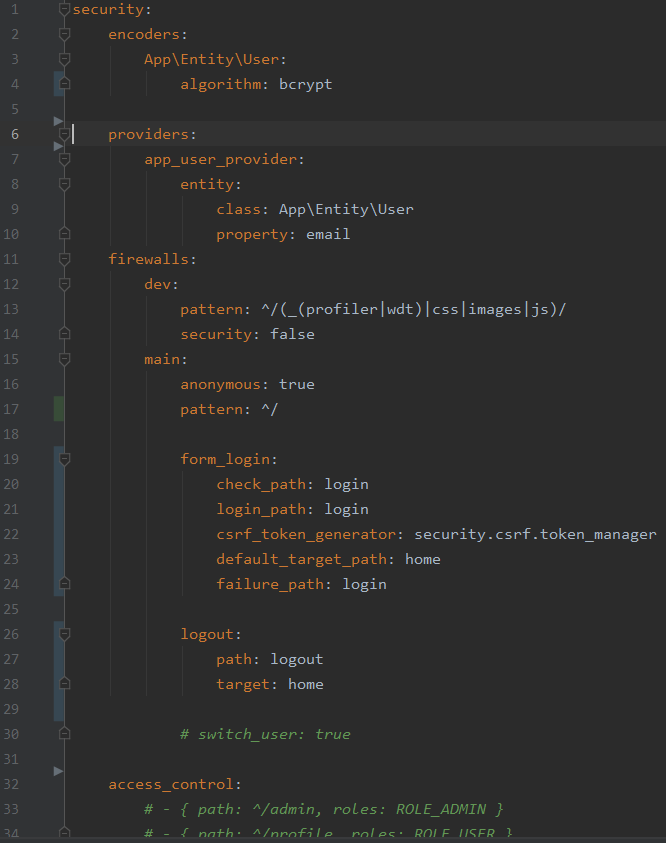
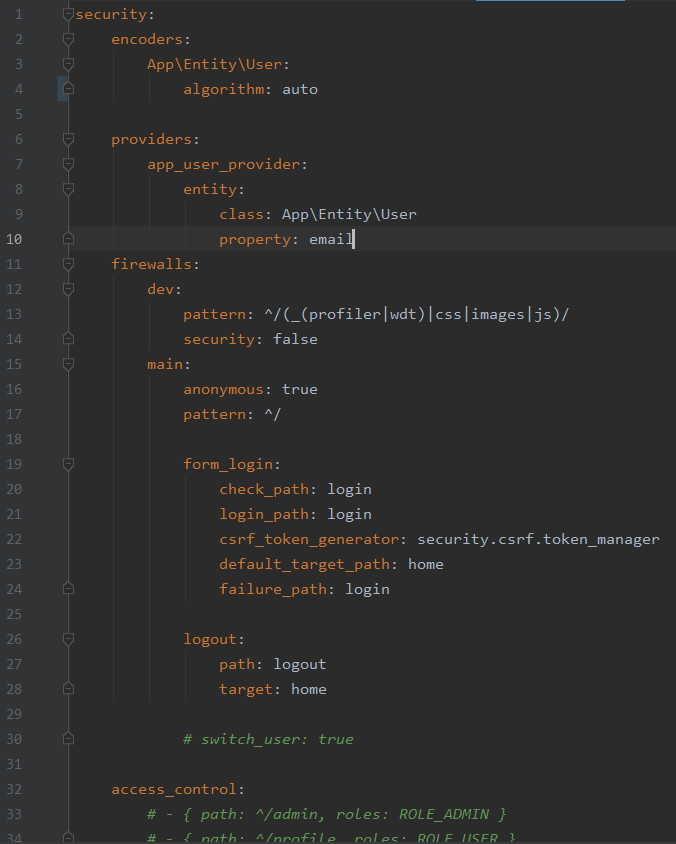
update README.nd
change the info about the encryption algorithm used, and added the info on the User provider

diff --git a/public/css/base.css b/public/css/base.css
@@ -3,13 +3,19 @@
     padding: 0;
 
     font-family: '83 Heavy Extended', 'HelveticaNeueLTCom-HvEx', Arial, sans-serif;
+    font-size: 1vw;
 
-    color: #1c7430;
+    color: #58a518;
 }
 
 body, html {
     height: 100vh;
 }
+
+h1 {
+    font-size: 5vw;
+}
+
 
 .background {
     height: 100vh;
@@ -18,6 +24,7 @@ body, html {
     background-position: center center;
     background-size: cover;
     background-repeat: no-repeat;
+    background-attachment: fixed;
 
     top: 0;
     bottom: 0;
@@ -47,7 +54,7 @@ body, html {
 }
 
 .navbar .home-button {
-    background-color: #0b2e13;
+    background-color: #58a518;
 }
 
 .navbar .login-button {

diff --git a/public/css/login.css b/public/css/login.css
@@ -1,3 +1,15 @@
 .login-form {
+    position: absolute;
+    top: 15%;
+    left: 33%;
 
+    box-sizing: border-box;
+    padding: 12rem 6rem;
+    border-radius: 25px;
+
+    background: linear-gradient(to bottom right, black, gray, white);
+}
+
+.form-group {
+    margin-top: 1rem;
 }

diff --git a/README.md b/README.md
@@ -87,8 +87,10 @@ The security.yaml file is the beating heart of our authentication system:
 
 ![security.yaml](ImagesReadme/security_yaml.PNG)
 
-Firstly, this file is configured to encrypt User passwords using the bcrypt algorithm. Next, 
-
+Firstly, this file is configured to encrypt User passwords using the most secure algorithm available at the time.
+Next, the User provider is listed, a class that helps with a few things, like reloading the User data from the session
+and some optional features, like "remember me" and impersonation.
+ 
 The firewall section consists of two subsections. The 'dev' part is not very important. Basically,
 it's only used to ensure the Symfony Profiler is not blocked while in a development environment. The
 'main' section, however, states anonymous users are allowed to access the resources, logging in is done
